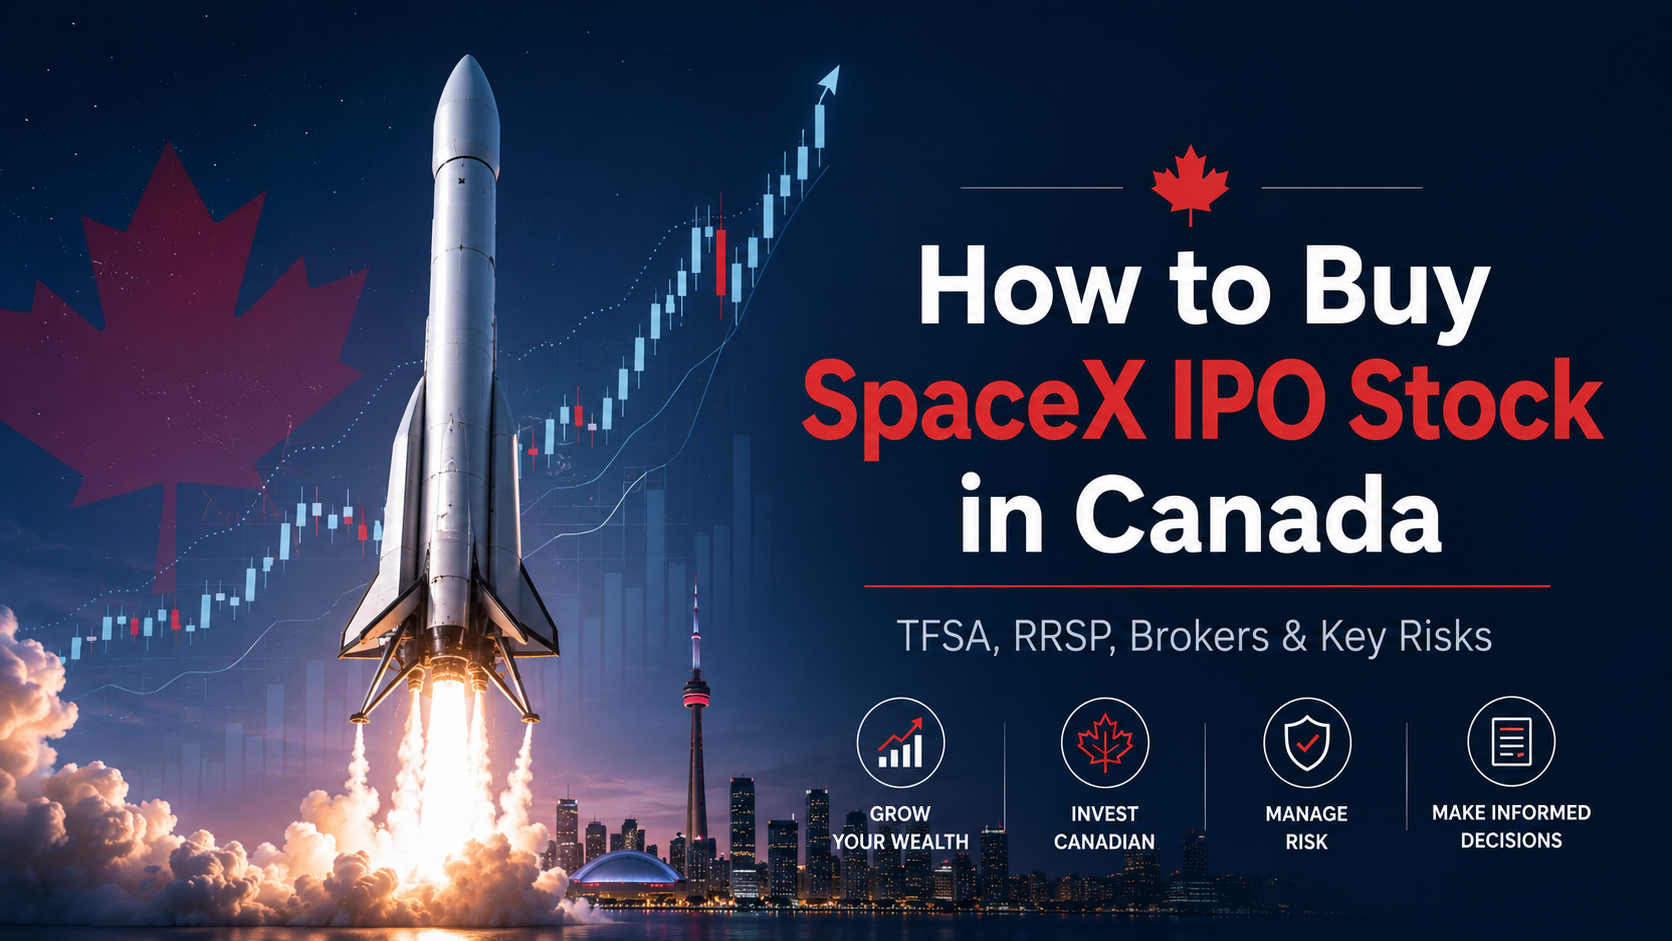
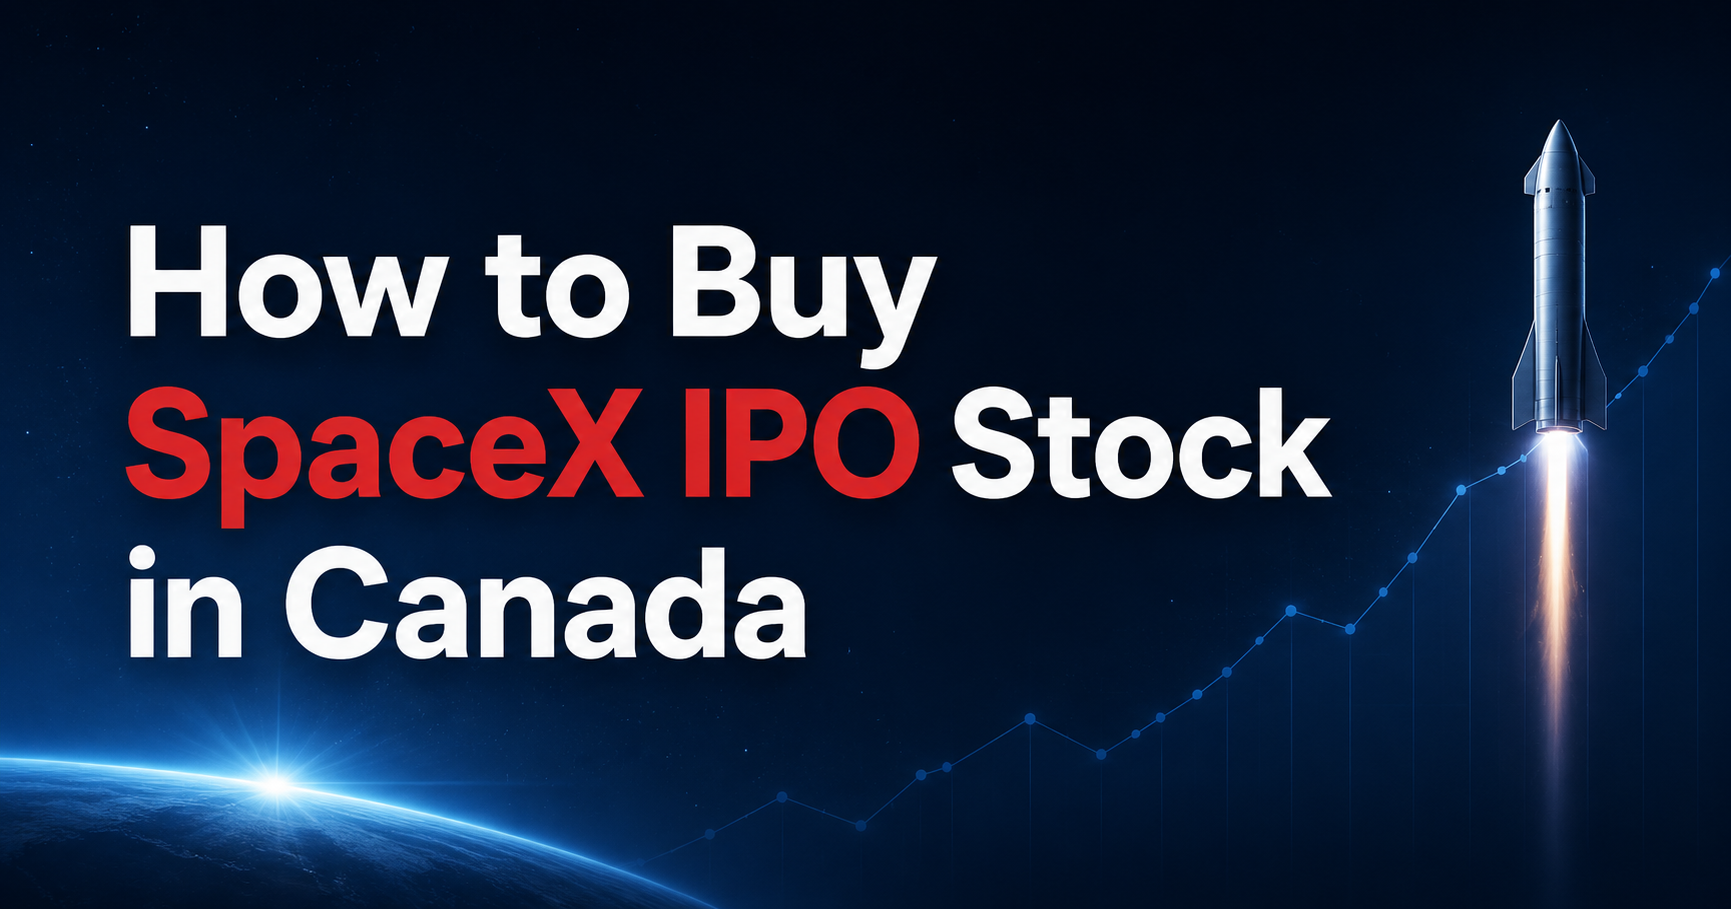
Improve SpaceX article image layout

diff --git a/src/components/ArticleImage.jsx b/src/components/ArticleImage.jsx
@@ -9,6 +9,7 @@ export default function ArticleImage({
   loading = "lazy",
 }) {
   const media = getArticleMedia(slug);
+  const fitClass = media.objectFit === "contain" ? "object-contain" : "object-cover";
 
   return (
     <div className={`overflow-hidden bg-slate-100 dark:bg-slate-900 ${className}`}>
@@ -16,7 +17,7 @@ export default function ArticleImage({
         src={media.image}
         alt={alt || media.alt}
         loading={loading}
-        className={`h-full w-full object-cover ${imgClassName}`}
+        className={`h-full w-full ${fitClass} ${imgClassName}`}
       />
     </div>
   );

diff --git a/src/components/BlogHero.jsx b/src/components/BlogHero.jsx
@@ -18,7 +18,7 @@ export default function BlogHero({
   headshotUrl = "",
 }) {
   const media = slug ? getArticleMedia(slug) : null;
-  const hasPhotoBackground = Boolean(media?.image && !media.image.endsWith(".svg"));
+  const hasPhotoBackground = Boolean(media?.image && !media.image.endsWith(".svg") && media.heroLayout !== "card");
   const [imageAvailable, setImageAvailable] = useState(Boolean(headshotUrl));
 
   return (

diff --git a/src/pages/blog/articleMedia.js b/src/pages/blog/articleMedia.js
@@ -2,6 +2,8 @@ export const articleMediaBySlug = {
   "how-to-buy-spacex-ipo-stock-in-canada": {
     image: "/article-images/spacex-ipo-stock-canada.png",
     alt: "SpaceX IPO stock in Canada article graphic with rocket launch, Canadian maple leaf, market chart, and risk planning icons",
+    heroLayout: "card",
+    objectFit: "contain",
   },
   "best-canadian-dividend-etfs-2026": {
     image: "/article-images/best-canadian-dividend-etfs-2026.webp",